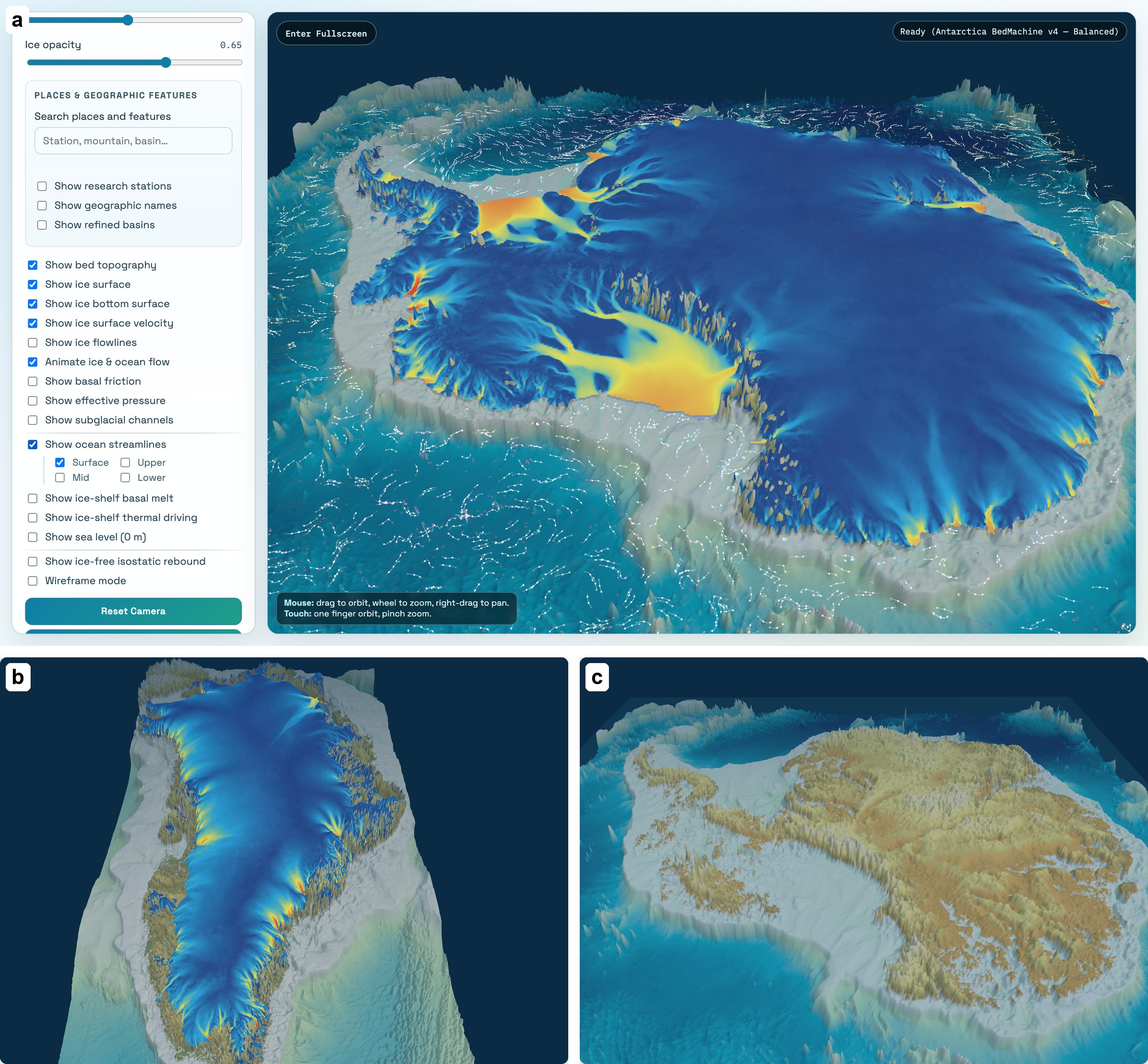
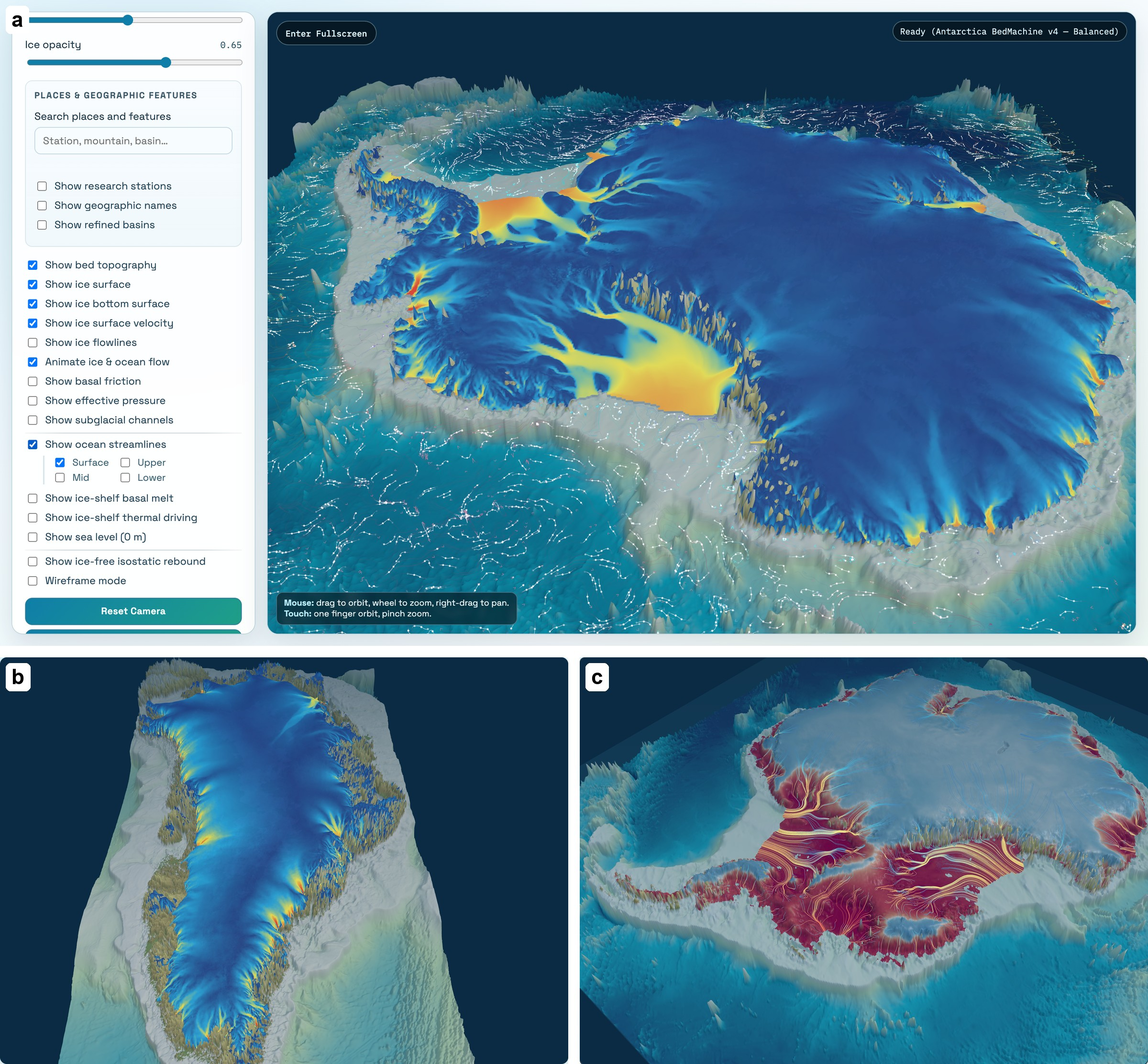
docs(joss): show the 2300 high-emission projection in Figure 1(c)
Panel (c) showed the ice-free bed under the idealised regional-flexure
response, which is no longer the rebound layer's default. It now shows
the ISMIP6 eight-model mean for SSP5-8.5 in 2300, coloured by thickness
change, as the public edition's high-emission tour stop draws it
(captured headless at 2x from main's static files and reduced to the
panel). The new panel was inserted with jpegtran -drop on an MCU-aligned
block, so panels (a) and (b) keep their original compressed data.

Changed region(s): [[0.5, 0.6205, 1.0, 1.0]]

diff --git a/paper.md b/paper.md
@@ -49,7 +49,7 @@ vector products into compact binary packages with provenance metadata, which a
 static JavaScript application built with Three.js [@threejs] and WebGL renders
 without plugins or server-side computation, on desktop and mobile devices.
 
-![The 3D ICE explorer. (a) The interface, with Antarctic ice-surface speed [@mouginot2019] and surface-layer WAOM2 ocean streamlines [@richter2022] over BedMachine Antarctica v4 [@morlighem2020]. (b) Greenland ice-surface speed from ITS_LIVE [@gardner2024] over BedMachine Greenland v6 [@morlighem2017]. (c) The ice-free Antarctic bed after complete isostatic rebound under the idealised regional-flexure response. Vertical scales are exaggerated.\label{fig:overview}](docs/images/explorer-overview.jpg)
+![The 3D ICE explorer. (a) The interface, with Antarctic ice-surface speed [@mouginot2019] and surface-layer WAOM2 ocean streamlines [@richter2022] over BedMachine Antarctica v4 [@morlighem2020]. (b) Greenland ice-surface speed from ITS_LIVE [@gardner2024] over BedMachine Greenland v6 [@morlighem2017]. (c) Antarctic ice in 2300 under high emissions (SSP5-8.5), the mean of eight ISMIP6 models [@seroussi2024], coloured by thickness change since 2015 (red: thinning), with flowlines coloured by speed, at the public edition's high-emission tour stop. Vertical scales are exaggerated.\label{fig:overview}](docs/images/explorer-overview.jpg)
 
 # Statement of need
 
